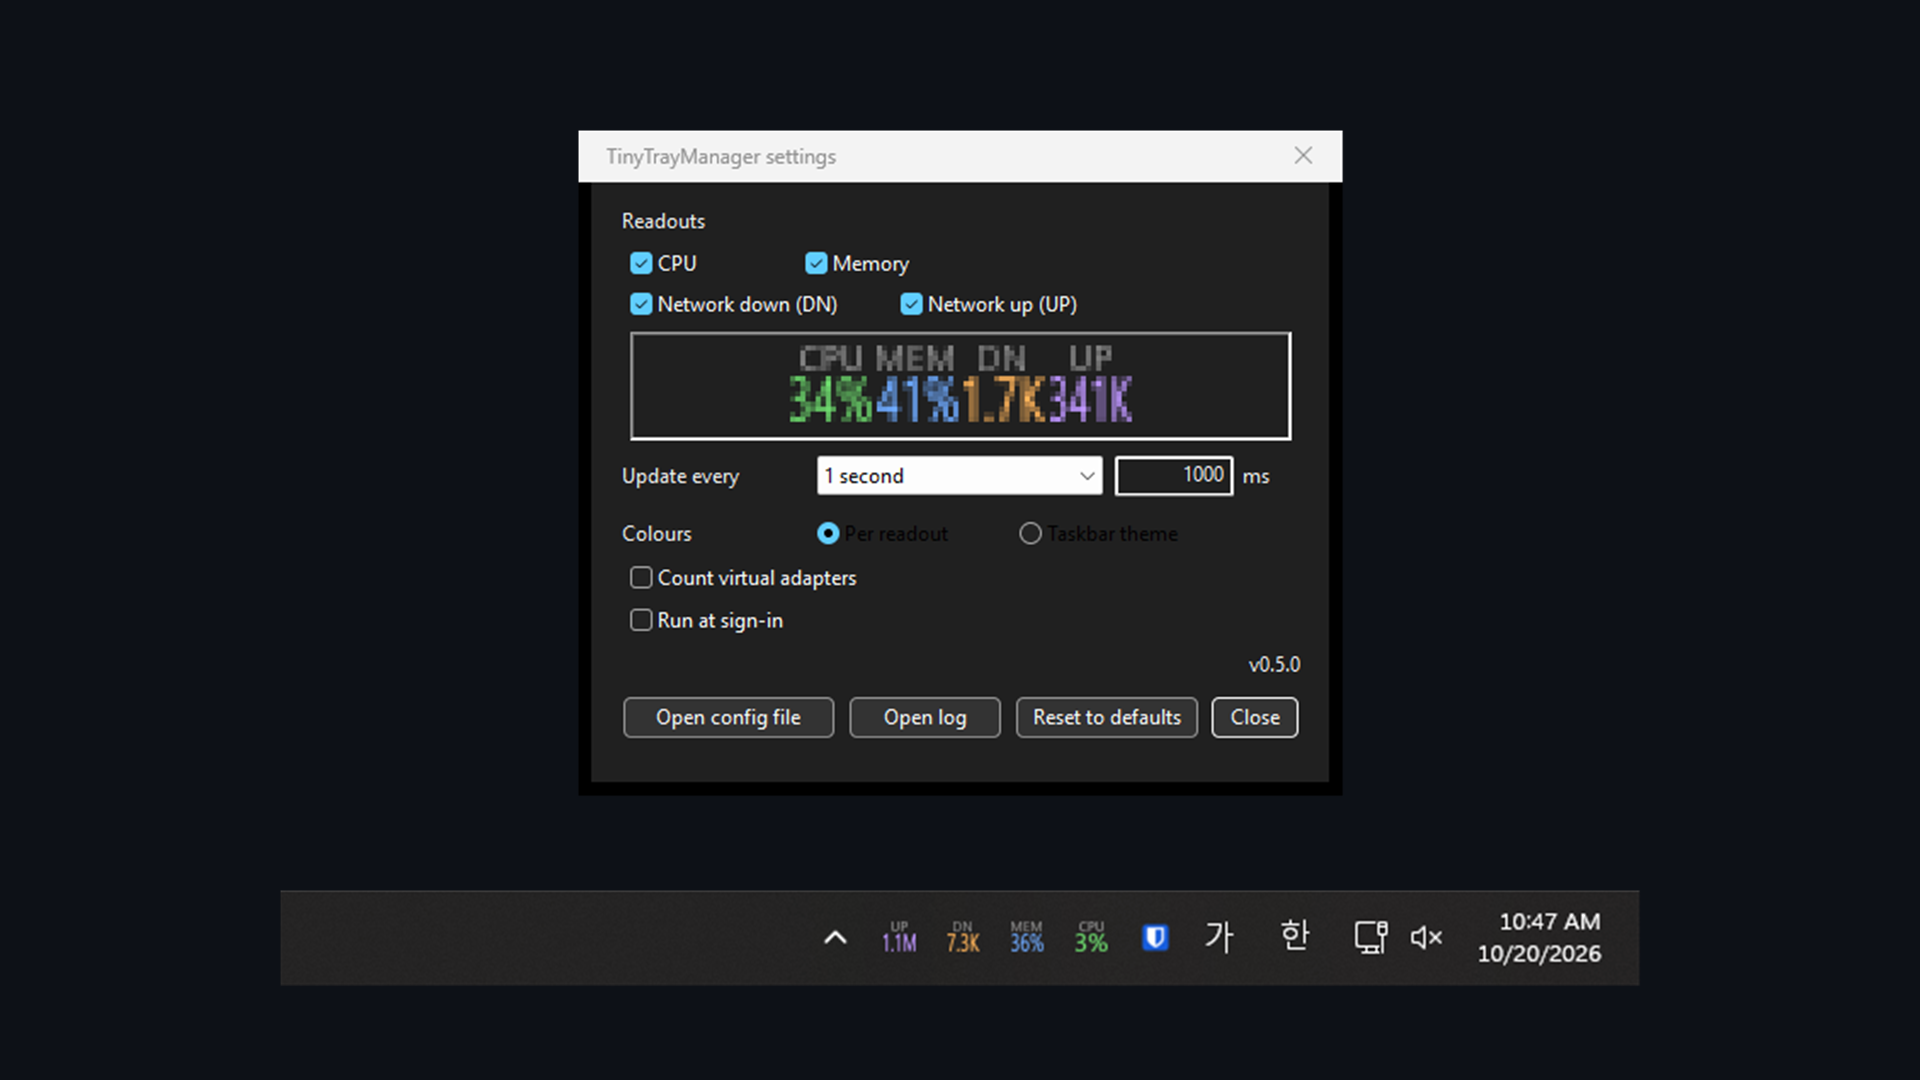
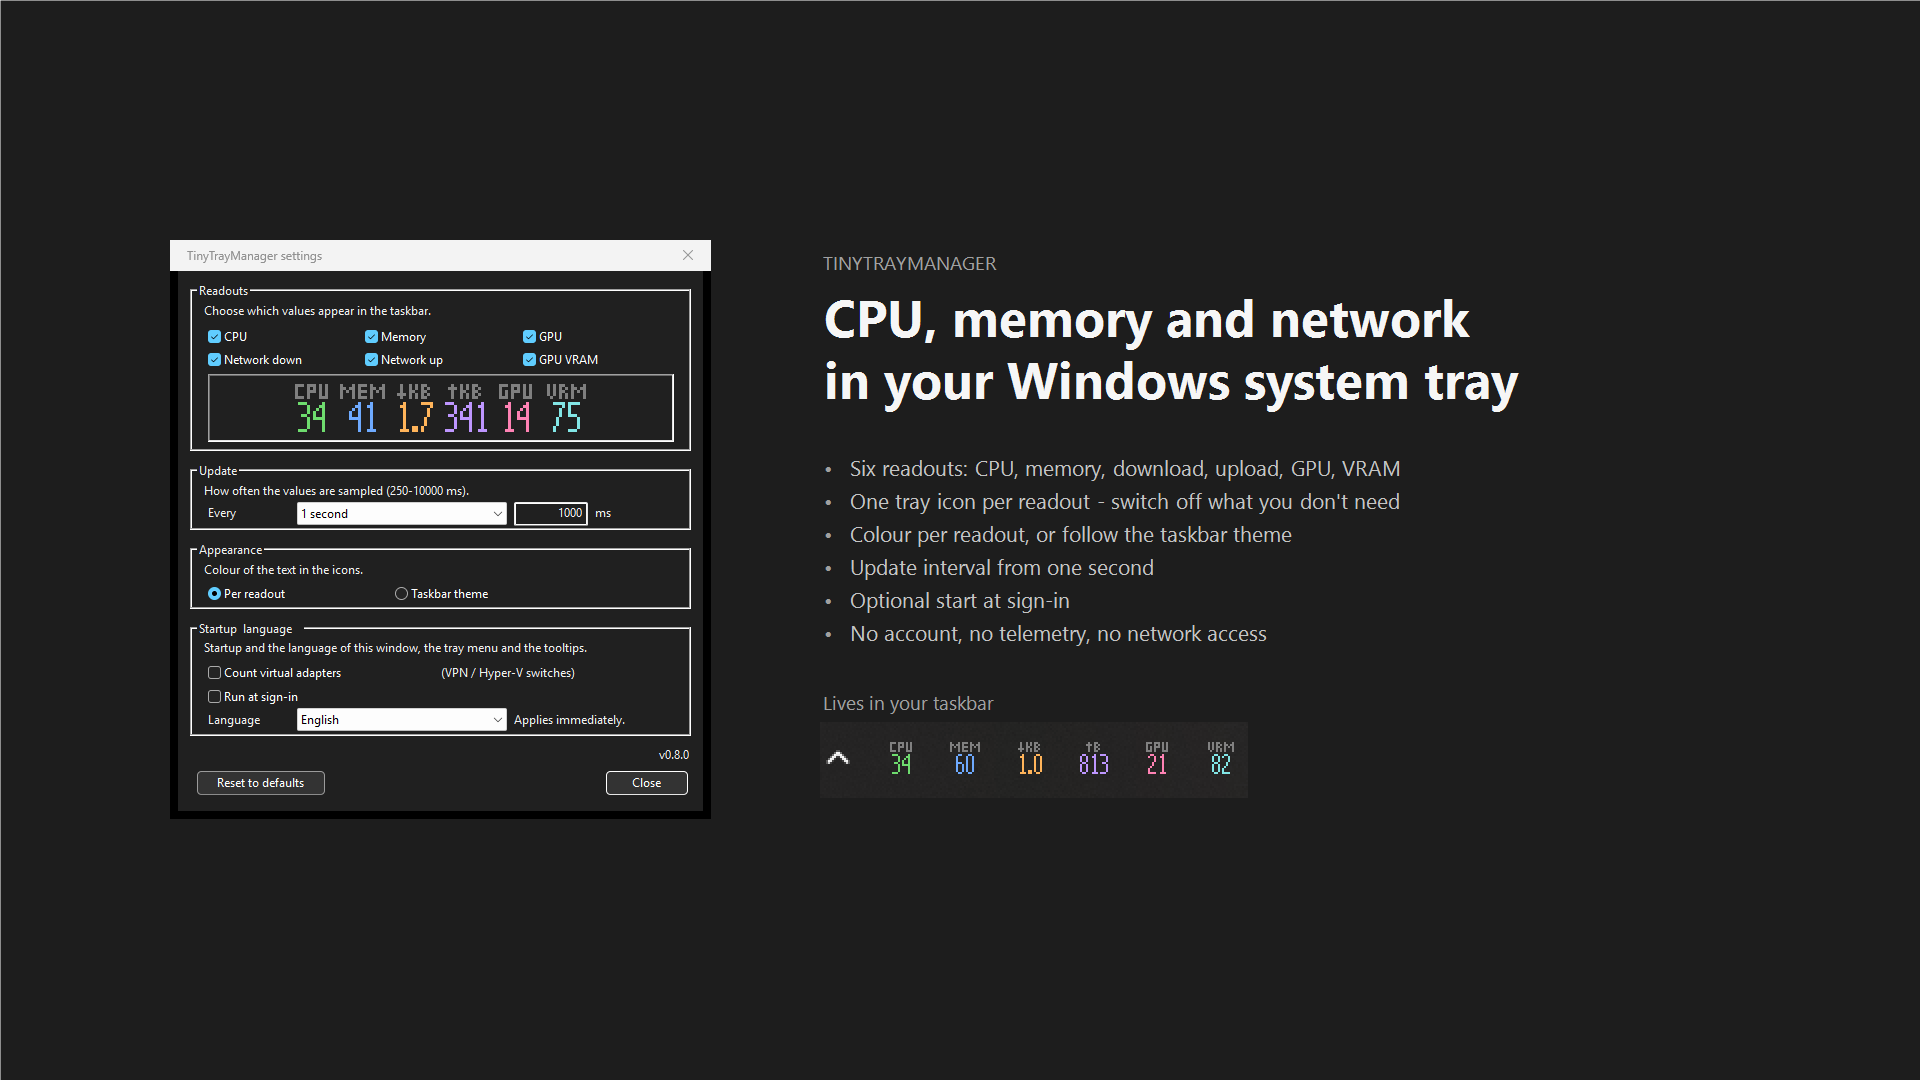
chore: re-capture the Store screenshots for the 0.8.0 UI (#21)
The listing still showed the 0.5.0 dialog, which no longer matches the app:
the layout was reworked, the UI is localised, the tray icons use a 1-bit
pixel font and GPU/VRAM readouts were added.

- 01-settings.png: the English dialog captured at 1:1 with PrintWindow, so
  no overlapping window lands in the crop, plus the real taskbar strip.
- 02-tray.png: the six readouts cropped from the live taskbar and enlarged
  with nearest-neighbour, each with its label underneath.
- listing.md: the What's new block now describes the 0.8.0 update.
- README.md: document how the screenshots are produced.

Changed region(s): [[0.0625, 0.1222, 0.8125, 0.7639], [0.4375, 0.8556, 0.75, 0.8861], [0.7812, 0.825, 0.8438, 0.9167]]

diff --git a/resources/store/listing.md b/resources/store/listing.md
@@ -47,7 +47,9 @@ TinyTrayManager is open source (MIT). The Microsoft Store build uses the Windows
 
 Requires Windows 10 version 1809 or later.
 
-## What's new (first release)
+## What's new (0.8.0)
 
-- First Microsoft Store release.
-- Fixed per-readout icons so the tray layout survives package updates.
+- Added GPU usage and VRAM readouts.
+- Localised the settings window, tray menu and tooltips (English, Korean, Japanese).
+- Redrew the tray icons with a crisper 1-bit pixel font.
+- Reworked the settings layout and moved the units into the icon caption.
